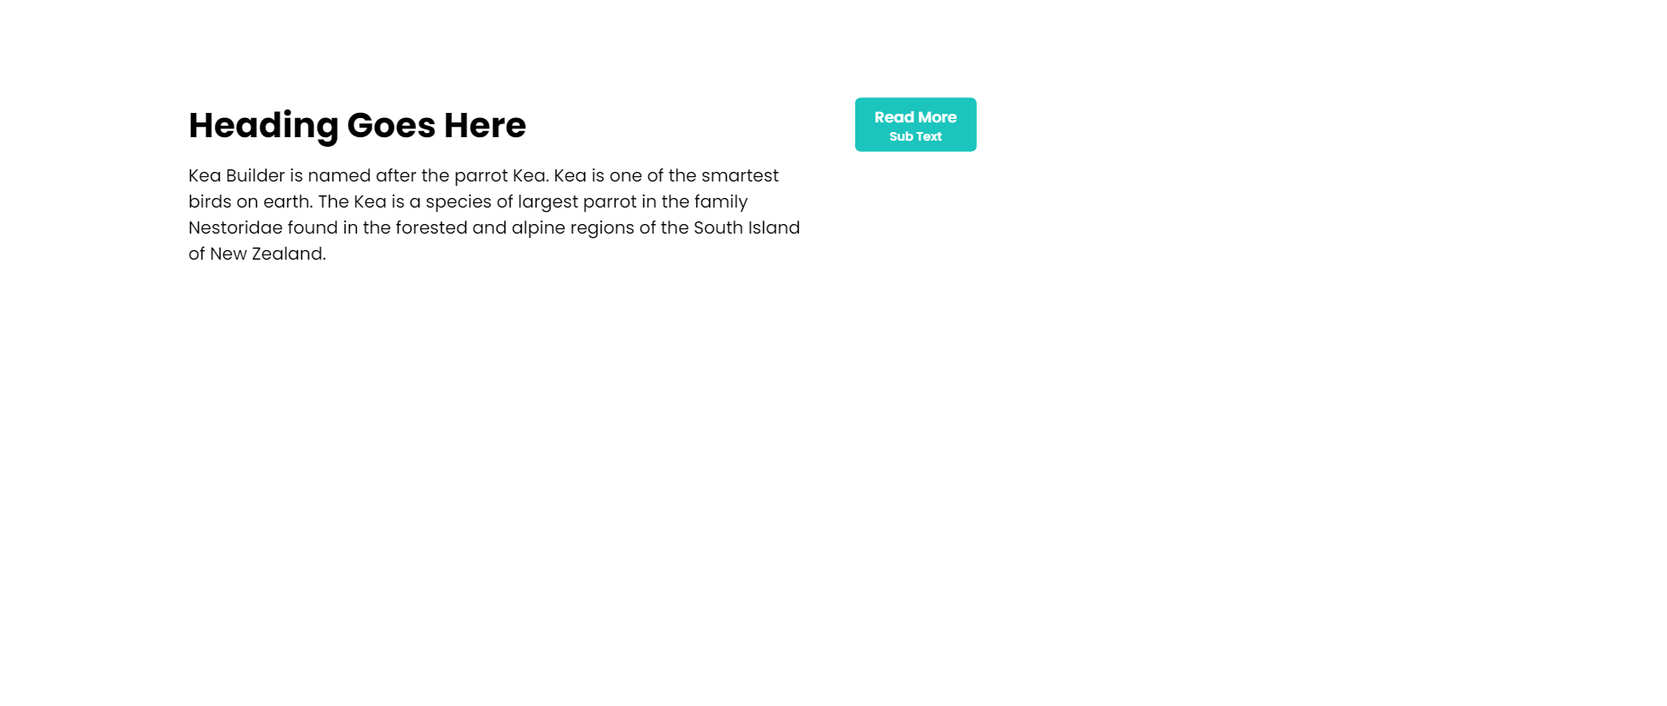
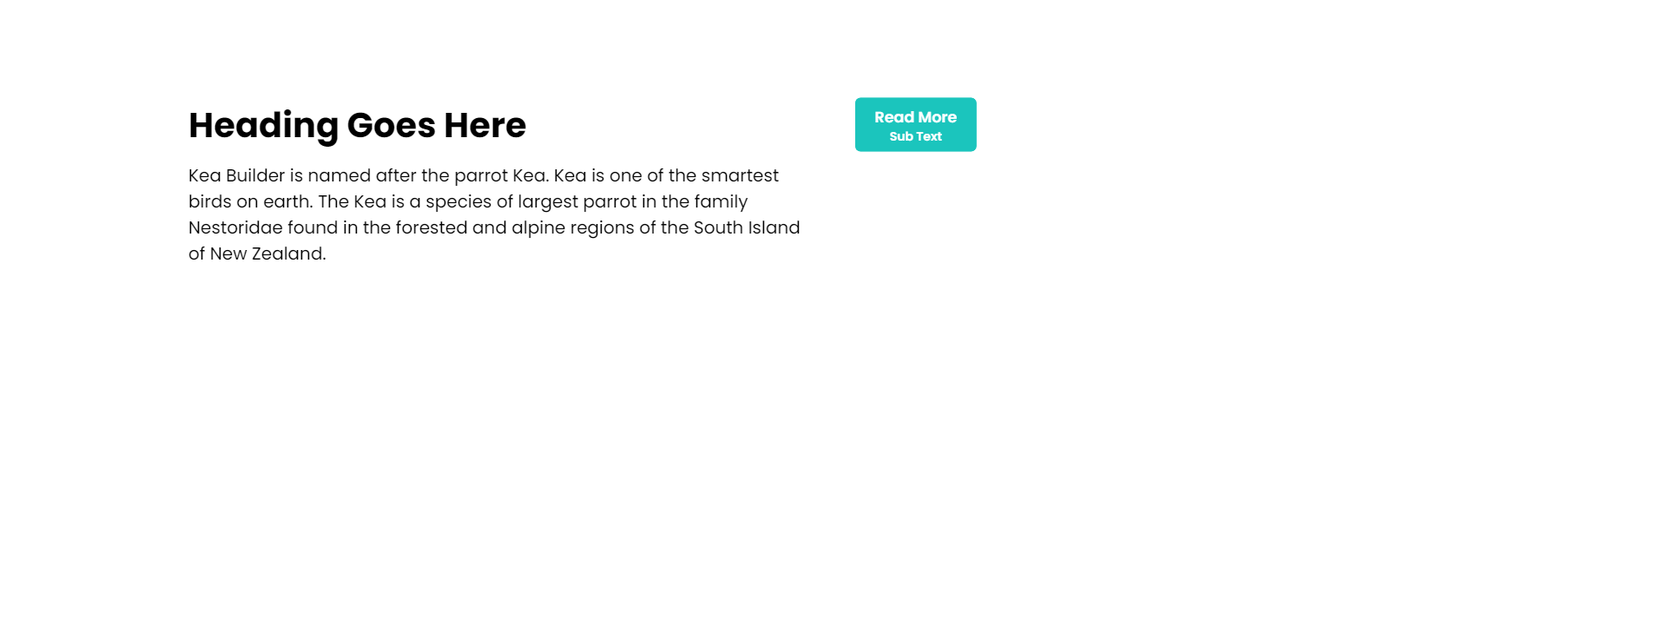
navigation

Changed region(s): [[0.0938, 0.1543, 0.4688, 0.432], [0.5, 0.1234, 0.5938, 0.2468]]

diff --git a/src/assets/default/pages/tracking.html b/src/assets/default/pages/tracking.html
@@ -1,0 +1,23 @@
+<!DOCTYPE html>
+<html>
+<body>
+<div id="kb-header-html">
+    <style id="kb-header-style">#kb-section-617263819{margin:0px auto 0px auto;padding:60px 0px 60px 0px;border-width:0px;border-radius:0px;border-color:rgba(0,0,0,1);border-style:solid;background-color:rgba(0,0,0,0);width:100%;height:auto;z-index:auto;}#kb-row-8402170359{margin:0px auto 0px auto;padding:30px 0px 30px 0px;border-width:0px;border-radius:0px;border-color:rgba(0,0,0,1);border-style:solid;background-color:rgba(0,0,0,0);width:80%;height:auto;z-index:auto;}#kb-row-8402170359 .kb-column-wrap{gap:0rem;}#kb-column-3087493117{margin:0px auto 0px auto;padding:0px 20px 0px 20px;border-width:0px;border-radius:0px;border-color:rgba(0,0,0,1);border-style:solid;background-color:rgba(0,0,0,0);width:100%;height:auto;z-index:auto;}#kb-element-2973388368 .kb-element-content div>div{font-size:32px;font-weight:700;font-style:normal;font-family:poppins;color:rgba(0,0,0,1);text-align:left;text-transform:none;text-decoration-line:none;text-decoration-style:solid;text-decoration-color:rgba(0,0,0,1);line-height:normal;letter-spacing:normal;margin:0px auto 10px 0px;padding:0px 0px 0px 0px;border-width:0px;border-radius:0px;border-color:rgba(0,0,0,1);border-style:solid;background-color:rgba(0,0,0,0);width:auto;height:auto;z-index:auto;}#kb-column-7558927472{margin:0px auto 0px auto;padding:0px 20px 0px 20px;border-width:0px;border-radius:0px;border-color:rgba(0,0,0,1);border-style:solid;background-color:rgba(0,0,0,0);width:100%;height:auto;z-index:auto;}#kb-element-4326245788 .kb-element-content div>div{font-size:32px;font-weight:700;font-style:normal;font-family:poppins;color:rgba(0,0,0,1);text-align:left;text-transform:none;text-decoration-line:none;text-decoration-style:solid;text-decoration-color:rgba(0,0,0,1);line-height:normal;letter-spacing:normal;margin:0px auto 10px 0px;padding:0px 0px 0px 0px;border-width:0px;border-radius:0px;border-color:rgba(0,0,0,1);border-style:solid;background-color:rgba(0,0,0,0);width:auto;height:auto;z-index:auto;}@media only screen and (max-width:1024px) and (min-width:769px){}@media only screen and (max-width:768px) and (min-width:426px){#kb-section-617263819{padding:30px 0px;}}@media only screen and (max-width:426px){#kb-section-617263819{padding:30px 0px;}}</style>
+    <header id="kb-header"><div _ngcontent-mur-c309="" cdkdroplist="" class="cdk-drop-list kb-drag-container" ng-reflect-connected-to="[object Object]" ng-reflect-data="[object Object]" id="cdk-drop-list-0"><div _ngcontent-mur-c309="" cdkdrag="" class="cdk-drag kb-section kb-block-container" title="" ng-reflect-ng-class="[object Object]" ng-reflect-ng-style="[object Object]" id="kb-section-617263819"><div _ngcontent-mur-c309="" cdkdroplist="" class="cdk-drop-list kb-drag-container" ng-reflect-id="rowgroup-0" ng-reflect-data="[object Object]" ng-reflect-connected-to="[object Object]" id="rowgroup-0"><div _ngcontent-mur-c309="" cdkdrag="" class="cdk-drag kb-row kb-block-container" title="" ng-reflect-ng-class="[object Object]" ng-reflect-ng-style="[object Object]" id="kb-row-8402170359"><div _ngcontent-mur-c309="" class="kb-column-wrap" ng-reflect-ng-class="[object Object]"><div _ngcontent-mur-c309="" class="kb-column kb-block-container kb-half-block" title="" ng-reflect-ng-style="[object Object]" ng-reflect-ng-class="[object Object]" id="kb-column-3087493117"><div _ngcontent-mur-c309="" cdkdroplist="" class="cdk-drop-list kb-drag-container" ng-reflect-id="elegroup-0" ng-reflect-data="[object Object]" ng-reflect-connected-to="[object Object],[object Object" id="elegroup-0"><div _ngcontent-mur-c309="" cdkdrag="" class="cdk-drag kb-element kb-block-container" title="" id="kb-element-2973388368" ng-reflect-ng-class="[object Object]"><div _ngcontent-mur-c309="" ng-reflect-ng-switch="heading" data-name="heading" style="width: 100%;"><div _ngcontent-mur-c309="" class="kb-element-content"><div _ngcontent-mur-c309=""><div _ngcontent-mur-c309="" ng-reflect-ng-style="[object Object]"><h2>Header</h2></div></div></div></div></div></div></div><div _ngcontent-mur-c309="" class="kb-column kb-block-container kb-half-block" title="" ng-reflect-ng-style="[object Object]" ng-reflect-ng-class="[object Object]" id="kb-column-7558927472"><div _ngcontent-mur-c309="" cdkdroplist="" class="cdk-drop-list kb-drag-container" ng-reflect-id="elegroup-1" ng-reflect-data="[object Object]" ng-reflect-connected-to="[object Object],[object Object" id="elegroup-1"><div _ngcontent-mur-c309="" cdkdrag="" class="cdk-drag kb-element kb-block-container" title="" id="kb-element-4326245788" ng-reflect-ng-class="[object Object]"><div _ngcontent-mur-c309="" ng-reflect-ng-switch="heading" data-name="heading" style="width: 100%;"><div _ngcontent-mur-c309="" class="kb-element-content"><div _ngcontent-mur-c309=""><div _ngcontent-mur-c309="" ng-reflect-ng-style="[object Object]"><h2>Header</h2></div></div></div></div></div></div></div></div></div></div></div></div></header>
+</div>
+<div id="kb-footer-html">
+    <style id="kb-footer-style">#kb-section-1037332598{margin:0px auto 0px auto;padding:60px 0px;border-width:0px;border-radius:0px;border-color:rgba(0,0,0,1);border-style:solid;background-color:#4e342e;width:100%;height:auto;z-index:auto;}#kb-row-1804675894{margin:0px auto 0px auto;padding:30px 0px;border-width:0px;border-radius:0px;border-color:rgba(0,0,0,1);border-style:solid;background-color:rgba(0,0,0,0);width:80%;height:auto;z-index:auto;}#kb-row-1804675894 .kb-column-wrap{gap:0rem;}#kb-column-829294727{margin:0px auto 0px auto;padding:0px 20px 0px 20px;border-width:0px;border-radius:0px;border-color:rgba(0,0,0,1);border-style:solid;background-color:rgba(0,0,0,0);width:100%;height:auto;z-index:auto;}#kb-element-1297955769 .kb-element-content div>div{font-size:32px;font-weight:700;font-style:normal;font-family:poppins;color:rgba(0,0,0,1);text-align:center;text-transform:none;text-decoration-line:none;text-decoration-style:solid;text-decoration-color:rgba(0,0,0,1);line-height:normal;letter-spacing:normal;margin:10px auto 90px auto;padding:0px 0px;border-width:0px;border-radius:0px;border-color:rgba(0,0,0,1);border-style:solid;background-color:#9ccc65;width:auto;height:auto;z-index:auto;}#kb-element-8819362122 .kb-element-content div>div{font-size:16px;font-weight:400;font-style:normal;font-family:poppins;color:rgba(0,0,0,1);text-align:left;text-transform:none;text-decoration-line:none;text-decoration-style:solid;text-decoration-color:rgba(0,0,0,1);line-height:normal;letter-spacing:normal;margin:0px auto 10px 0px;padding:0px 0px 0px 0px;border-width:0px;border-radius:0px;border-color:rgba(0,0,0,1);border-style:solid;background-color:rgba(0,0,0,0);width:auto;height:auto;z-index:auto;}#kb-column-9001084157{margin:0px auto 0px auto;padding:0px 20px 0px 20px;border-width:0px;border-radius:0px;border-color:rgba(0,0,0,1);border-style:solid;background-color:rgba(0,0,0,0);width:100%;height:auto;z-index:auto;}@media only screen and (max-width:1024px) and (min-width:769px){}@media only screen and (max-width:768px) and (min-width:426px){#kb-section-1037332598{padding:30px 0px;}#kb-element-8819362122 .kb-element-content div>div{font-size:14px;}}@media only screen and (max-width:426px){#kb-section-1037332598{padding:30px 0px;}#kb-element-8819362122 .kb-element-content div>div{font-size:14px;}}</style>
+    <footer id="kb-footer"><div _ngcontent-dxn-c309="" cdkdroplist="" class="cdk-drop-list kb-drag-container" ng-reflect-connected-to="[object Object]" ng-reflect-data="[object Object]" id="cdk-drop-list-0"><div _ngcontent-dxn-c309="" cdkdrag="" class="cdk-drag kb-section kb-block-container" title="" ng-reflect-ng-class="[object Object]" ng-reflect-ng-style="[object Object]" id="kb-section-1037332598"><div _ngcontent-dxn-c309="" cdkdroplist="" class="cdk-drop-list kb-drag-container" ng-reflect-id="rowgroup-0" ng-reflect-data="[object Object]" ng-reflect-connected-to="[object Object]" id="rowgroup-0"><div _ngcontent-dxn-c309="" cdkdrag="" class="cdk-drag kb-row kb-block-container" title="" ng-reflect-ng-class="[object Object]" ng-reflect-ng-style="[object Object]" id="kb-row-1804675894"><div _ngcontent-dxn-c309="" class="kb-column-wrap" ng-reflect-ng-class="[object Object]"><div _ngcontent-dxn-c309="" class="kb-column kb-block-container kb-half-block" title="" ng-reflect-ng-style="[object Object]" ng-reflect-ng-class="[object Object]" id="kb-column-829294727"><div _ngcontent-dxn-c309="" cdkdroplist="" class="cdk-drop-list kb-drag-container" ng-reflect-id="elegroup-0" ng-reflect-data="[object Object]" ng-reflect-connected-to="[object Object],[object Object" id="elegroup-0"><div _ngcontent-dxn-c309="" cdkdrag="" class="cdk-drag kb-element kb-block-container" title="" id="kb-element-1297955769" ng-reflect-ng-class="[object Object]"><div _ngcontent-dxn-c309="" ng-reflect-ng-switch="heading" data-name="heading" style="width: 100%;"><div _ngcontent-dxn-c309="" class="kb-element-content"><div _ngcontent-dxn-c309=""><div _ngcontent-dxn-c309="" ng-reflect-ng-style="[object Object]" class="ng-star-inserted"><h2>Footer</h2></div></div></div></div></div><div _ngcontent-dxn-c309="" cdkdrag="" class="cdk-drag kb-element kb-block-container" title="" id="kb-element-8819362122" ng-reflect-ng-class="[object Object]"><div _ngcontent-dxn-c309="" ng-reflect-ng-switch="text" data-name="text" style="width: 100%;"><div _ngcontent-dxn-c309="" class="kb-element-content"><div _ngcontent-dxn-c309=""><div _ngcontent-dxn-c309="" ng-reflect-ng-style="[object Object]"><p>Kea Builder is named after the parrot Kea. Kea is one of the smartest birds on earth. The Kea is a species of largest parrot in the family Nestoridae found in the forested and alpine regions of the South Island of New Zealand.</p></div></div></div></div></div></div></div><div _ngcontent-dxn-c309="" class="kb-column kb-block-container kb-half-block" title="" ng-reflect-ng-style="[object Object]" ng-reflect-ng-class="[object Object]" id="kb-column-9001084157"><div _ngcontent-dxn-c309="" cdkdroplist="" class="cdk-drop-list kb-drag-container" ng-reflect-id="elegroup-1" ng-reflect-data="" ng-reflect-connected-to="[object Object],[object Object" id="elegroup-1"></div><span _ngcontent-dxn-c309="" mattooltip="Add New Element" mattooltipposition="right" class="mat-tooltip-trigger kb-ispan-add add-element" ng-reflect-message="Add New Element" ng-reflect-position="right" aria-describedby="cdk-describedby-message-13" cdk-describedby-host="0"><i _ngcontent-dxn-c309="" class="fa fa-plus"></i></span></div></div></div></div></div></div></footer>
+</div>
+<div id="kb-header-tracking">
+<script>
+console.log('I am coming from header');
+</script>
+</div>
+<div id="kb-footer-tracking">
+<script>
+console.log('I am coming from footer');
+</script>
+</div> 
+</body>
+</html>

diff --git a/src/assets/sites/pages/bug-test2/index.html b/src/assets/sites/pages/bug-test2/index.html
@@ -1,1 +1,1 @@
-<html><head><link rel="icon" type="image/x-icon" href="http://localhost:4200/assets/uploads/images/keaimage-kblogo-4244e1h1bc248.png"><meta charset="UTF-8"><meta name="description" content="This page is built using Keabuilder."><meta name="keywords" content=""><meta name="author" content="Test1"><meta name="viewport" content="width=device-width, initial-scale=1.0"><title>bug test2</title><link rel="stylesheet" href="http://localhost:4200/assets/style/builder.css"><link rel="stylesheet" href="http://localhost:4200/assets/sites/pages/bug-test2/style.css"><script id="tracking-js" kb-include-path="http://localhost:4200/assets/sites/pages/tracking.html" src="http://localhost:4200/assets/script/tracking.js"></script></head><body><header _ngcontent-qck-c309="" kb-include-html="true"></header><div _ngcontent-qck-c309="" id="kb-main" ng-reflect-ng-style="[object Object]"><div _ngcontent-qck-c309="" cdkdroplist="" class="cdk-drop-list kb-drag-container" ng-reflect-connected-to="[object Object]" ng-reflect-data="[object Object]" id="cdk-drop-list-0"><div _ngcontent-qck-c309="" cdkdrag="" class="cdk-drag kb-section kb-block-container" title="" ng-reflect-ng-class="[object Object]" ng-reflect-ng-style="[object Object]" id="kb-section-5677231491"><div _ngcontent-qck-c309="" cdkdroplist="" class="cdk-drop-list kb-drag-container" ng-reflect-id="rowgroup-0" ng-reflect-data="[object Object]" ng-reflect-connected-to="[object Object]" id="rowgroup-0"><div _ngcontent-qck-c309="" cdkdrag="" class="cdk-drag kb-row kb-block-container" title="" ng-reflect-ng-class="[object Object]" ng-reflect-ng-style="[object Object]" id="kb-row-5663904114"><div _ngcontent-qck-c309="" class="kb-column-wrap" ng-reflect-ng-class="[object Object]"><div _ngcontent-qck-c309="" class="kb-column kb-block-container kb-half-block" title="" ng-reflect-ng-style="[object Object]" ng-reflect-ng-class="[object Object]" id="kb-column-8435241460"><div _ngcontent-qck-c309="" cdkdroplist="" class="cdk-drop-list kb-drag-container" ng-reflect-id="elegroup-0" ng-reflect-data="[object Object],[object Object" ng-reflect-connected-to="[object Object],[object Object" id="elegroup-0" style=""><div _ngcontent-qck-c309="" cdkdrag="" class="cdk-drag kb-element kb-block-container" title="" id="kb-element-9298460599" ng-reflect-ng-class="[object Object]" style="margin: 0px auto 10px 0px;"><div _ngcontent-qck-c309="" ng-reflect-ng-switch="heading" data-name="heading" style="width: 100%;"><div _ngcontent-qck-c309="" class="kb-element-content"><div _ngcontent-qck-c309=""><div _ngcontent-qck-c309="" ng-reflect-ng-style="[object Object]"><h2>Heading Goes Here</h2></div></div></div></div></div><div _ngcontent-qck-c309="" cdkdrag="" class="cdk-drag kb-element kb-block-container" title="" id="kb-element-3746936791" ng-reflect-ng-class="[object Object]" style=""><div _ngcontent-qck-c309="" ng-reflect-ng-switch="text" data-name="text" style="width: 100%;"><div _ngcontent-qck-c309="" class="kb-element-content"><div _ngcontent-qck-c309=""><div _ngcontent-qck-c309="" ng-reflect-ng-style="[object Object]"><p>Kea Builder is named after the parrot Kea. Kea is one of the smartest birds on earth. The Kea is a species of largest parrot in the family Nestoridae found in the forested and alpine regions of the South Island of New Zealand.</p></div></div></div></div></div></div></div><div _ngcontent-qck-c309="" class="kb-column kb-block-container kb-half-block" title="" ng-reflect-ng-style="[object Object]" ng-reflect-ng-class="[object Object]" id="kb-column-3980713055"><div _ngcontent-qck-c309="" cdkdroplist="" class="cdk-drop-list kb-drag-container" ng-reflect-id="elegroup-1" ng-reflect-data="[object Object]" ng-reflect-connected-to="[object Object],[object Object" id="elegroup-1"><div _ngcontent-qck-c309="" cdkdrag="" class="cdk-drag kb-element kb-block-container" title="" id="kb-element-629043457" ng-reflect-ng-class="[object Object]" style="margin: 0px auto 10px 0px;"><div _ngcontent-qck-c309="" ng-reflect-ng-switch="button" data-name="button"><div _ngcontent-qck-c309="" class="kb-element-content"><a _ngcontent-qck-c309="" class="kb-default-btn" href="http://localhost:4200/builder/website/ji938bgi8b98a#" target="_self" ng-reflect-ng-style="[object Object]"><div _ngcontent-qck-c309="">Read More</div><div _ngcontent-qck-c309="" class="subtext">Sub Text</div></a></div></div></div></div></div></div></div></div></div></div></div><footer _ngcontent-qck-c309="" kb-include-html="true"></footer></body></html>
+<html><head><link rel="icon" type="image/x-icon" href="http://localhost:4200/assets/uploads/images/keaimage-kblogo-4244e1h1bc248.png"><meta charset="UTF-8"><meta name="description" content="This page is built using Keabuilder."><meta name="keywords" content=""><meta name="author" content="Test1"><meta name="viewport" content="width=device-width, initial-scale=1.0"><title>bug test2</title><link rel="stylesheet" href="http://localhost:4200/assets/style/builder.css"><link rel="stylesheet" href="http://localhost:4200/assets/sites/pages/bug-test2/style.css"><script id="tracking-js" kb-include-path="http://localhost:4200/assets/sites/pages/tracking.html" src="http://localhost:4200/assets/script/tracking.js"></script></head><body><header _ngcontent-tmy-c309="" kb-include-html="true"></header><div _ngcontent-tmy-c309="" id="kb-main" ng-reflect-ng-style="[object Object]"><div _ngcontent-tmy-c309="" cdkdroplist="" class="cdk-drop-list kb-drag-container" ng-reflect-connected-to="[object Object]" ng-reflect-data="[object Object]" id="cdk-drop-list-0"><div _ngcontent-tmy-c309="" cdkdrag="" class="cdk-drag kb-section kb-block-container" title="" ng-reflect-ng-class="[object Object]" ng-reflect-ng-style="[object Object]" id="kb-section-5677231491"><div _ngcontent-tmy-c309="" cdkdroplist="" class="cdk-drop-list kb-drag-container" ng-reflect-id="rowgroup-0" ng-reflect-data="[object Object]" ng-reflect-connected-to="[object Object]" id="rowgroup-0"><div _ngcontent-tmy-c309="" cdkdrag="" class="cdk-drag kb-row kb-block-container" title="" ng-reflect-ng-class="[object Object]" ng-reflect-ng-style="[object Object]" id="kb-row-5663904114"><div _ngcontent-tmy-c309="" class="kb-column-wrap" ng-reflect-ng-class="[object Object]"><div _ngcontent-tmy-c309="" class="kb-column kb-block-container kb-half-block" title="" ng-reflect-ng-style="[object Object]" ng-reflect-ng-class="[object Object]" id="kb-column-8435241460"><div _ngcontent-tmy-c309="" cdkdroplist="" class="cdk-drop-list kb-drag-container" ng-reflect-id="elegroup-0" ng-reflect-data="[object Object],[object Object" ng-reflect-connected-to="[object Object],[object Object" id="elegroup-0"><div _ngcontent-tmy-c309="" cdkdrag="" class="cdk-drag kb-element kb-block-container" title="" id="kb-element-9298460599" ng-reflect-ng-class="[object Object]"><div _ngcontent-tmy-c309="" ng-reflect-ng-switch="heading" data-name="heading" style="width: 100%;"><div _ngcontent-tmy-c309="" class="kb-element-content"><div _ngcontent-tmy-c309=""><div _ngcontent-tmy-c309="" ng-reflect-ng-style="[object Object]" class="ng-star-inserted"><h2>Heading Goes Here</h2></div></div></div></div></div><div _ngcontent-tmy-c309="" cdkdrag="" class="cdk-drag kb-element kb-block-container ng-star-inserted" title="" id="kb-element-3267968163" ng-reflect-ng-class="[object Object]"><div _ngcontent-tmy-c309="" ng-reflect-ng-switch="text" data-name="text" style="width: 100%;"><div _ngcontent-tmy-c309="" class="kb-element-content ng-star-inserted"><div _ngcontent-tmy-c309="" class="ng-star-inserted"><div _ngcontent-tmy-c309="" ng-reflect-ng-style="[object Object]" class="ng-star-inserted"><p>Kea Builder is named after the parrot Kea. Kea is one of the smartest birds on earth. The Kea is a species of largest parrot in the family Nestoridae found in the forested and alpine regions of the South Island of New Zealand.</p></div></div></div></div></div></div></div><div _ngcontent-tmy-c309="" class="kb-column kb-block-container kb-half-block" title="" ng-reflect-ng-style="[object Object]" ng-reflect-ng-class="[object Object]" id="kb-column-3980713055"><div _ngcontent-tmy-c309="" cdkdroplist="" class="cdk-drop-list kb-drag-container" ng-reflect-id="elegroup-1" ng-reflect-data="[object Object]" ng-reflect-connected-to="[object Object],[object Object" id="elegroup-1"><div _ngcontent-tmy-c309="" cdkdrag="" class="cdk-drag kb-element kb-block-container" title="" id="kb-element-629043457" ng-reflect-ng-class="[object Object]"><div _ngcontent-tmy-c309="" ng-reflect-ng-switch="button" data-name="button"><div _ngcontent-tmy-c309="" class="kb-element-content"><a _ngcontent-tmy-c309="" class="kb-default-btn" href="http://localhost:4200/builder/website/ji938bgi8b98a#" target="_self" ng-reflect-ng-style="[object Object]"><div _ngcontent-tmy-c309="">Read More</div><div _ngcontent-tmy-c309="" class="subtext">Sub Text</div></a></div></div></div></div></div></div></div></div></div></div></div><footer _ngcontent-tmy-c309="" kb-include-html="true"></footer></body></html>

diff --git a/src/assets/sites/pages/bug-test2/style.css b/src/assets/sites/pages/bug-test2/style.css
@@ -1,1 +1,1 @@
-#kb-main{margin:0px auto 0px auto;padding:0px 0px 0px 0px;border-width:0px;border-radius:0px;border-color:rgba(0,0,0,1);border-style:solid;background-color:rgba(0,0,0,0);width:100%;height:100%;z-index:auto;}#kb-section-5677231491{margin:0px auto 0px auto;padding:60px 0px 60px 0px;border-width:0px;border-radius:0px;border-color:rgba(0,0,0,1);border-style:solid;background-color:rgba(0,0,0,0);width:100%;height:auto;z-index:auto;}#kb-row-5663904114{margin:0px auto 0px auto;padding:30px 0px 30px 0px;border-width:0px;border-radius:0px;border-color:rgba(0,0,0,1);border-style:solid;background-color:rgba(0,0,0,0);width:80%;height:auto;z-index:auto;}#kb-row-5663904114 .kb-column-wrap{gap:0rem;}#kb-column-8435241460{margin:0px auto 0px auto;padding:0px 20px 0px 20px;border-width:0px;border-radius:0px;border-color:rgba(0,0,0,1);border-style:solid;background-color:rgba(0,0,0,0);width:100%;height:auto;z-index:auto;}#kb-element-9298460599 .kb-element-content div>div{font-size:32px;font-weight:700;font-style:normal;font-family:poppins;color:rgba(0,0,0,1);text-align:left;text-transform:none;text-decoration-line:none;text-decoration-style:solid;text-decoration-color:rgba(0,0,0,1);line-height:normal;letter-spacing:normal;margin:0px auto 10px 0px;padding:0px 0px 0px 0px;border-width:0px;border-radius:0px;border-color:rgba(0,0,0,1);border-style:solid;background-color:rgba(0,0,0,0);width:auto;height:auto;z-index:auto;}#kb-element-3746936791 .kb-element-content div>div{}#kb-column-3980713055{margin:0px auto 0px auto;padding:0px 20px 0px 20px;border-width:0px;border-radius:0px;border-color:rgba(0,0,0,1);border-style:solid;background-color:rgba(0,0,0,0);width:100%;height:auto;z-index:auto;}#kb-element-629043457 .kb-element-content a{font-size:14px;font-weight:600;font-style:normal;font-family:poppins;color:rgba(255, 255, 255, 1);text-align:center;text-transform:none;text-decoration-line:none;text-decoration-style:solid;text-decoration-color:rgba(255, 255, 255, 1);line-height:normal;letter-spacing:normal;margin:0px auto 10px 0px;padding:4px 16px 4px 16px;border-width:2px;border-radius:5px;border-color:#1BC5BD;border-style:solid;background-color:#1BC5BD;width:auto;height:auto;z-index:auto;}@media only screen and (max-width:1024px) and (min-width:769px){}@media only screen and (max-width:768px) and (min-width:426px){#kb-section-5677231491{padding:30px 0px;}#kb-element-9298460599 .kb-element-content div>div{font-size:24px;}}@media only screen and (max-width:426px){#kb-section-5677231491{padding:30px 0px;}#kb-element-9298460599 .kb-element-content div>div{font-size:24px;}}
+#kb-main{margin:0px auto 0px auto;padding:0px 0px 0px 0px;border-width:0px;border-radius:0px;border-color:rgba(0,0,0,1);border-style:solid;background-color:rgba(0,0,0,0);width:100%;height:100%;z-index:auto;}#kb-section-5677231491{margin:0px auto 0px auto;padding:60px 0px 60px 0px;border-width:0px;border-radius:0px;border-color:rgba(0,0,0,1);border-style:solid;background-color:rgba(0,0,0,0);width:100%;height:auto;z-index:auto;}#kb-row-5663904114{margin:0px auto 0px auto;padding:30px 0px 30px 0px;border-width:0px;border-radius:0px;border-color:rgba(0,0,0,1);border-style:solid;background-color:rgba(0,0,0,0);width:80%;height:auto;z-index:auto;}#kb-row-5663904114 .kb-column-wrap{gap:0rem;}#kb-column-8435241460{margin:0px auto 0px auto;padding:0px 20px 0px 20px;border-width:0px;border-radius:0px;border-color:rgba(0,0,0,1);border-style:solid;background-color:rgba(0,0,0,0);width:100%;height:auto;z-index:auto;}#kb-element-9298460599 .kb-element-content div>div{font-size:32px;font-weight:700;font-style:normal;font-family:poppins;color:rgba(0,0,0,1);text-align:left;text-transform:none;text-decoration-line:none;text-decoration-style:solid;text-decoration-color:rgba(0,0,0,1);line-height:normal;letter-spacing:normal;margin:0px auto 10px 0px;padding:0px 0px;border-width:0px;border-radius:0px;border-color:rgba(0,0,0,1);border-style:solid;background-color:rgba(0,0,0,0);width:auto;height:auto;z-index:auto;}#kb-element-3267968163 .kb-element-content div>div{font-size:16px;font-weight:400;font-style:normal;font-family:poppins;color:rgba(0,0,0,1);text-align:left;text-transform:none;text-decoration-line:none;text-decoration-style:solid;text-decoration-color:rgba(0,0,0,1);line-height:normal;letter-spacing:normal;margin:0px auto 10px 0px;padding:0px 0px 0px 0px;border-width:0px;border-radius:0px;border-color:rgba(0,0,0,1);border-style:solid;background-color:rgba(0,0,0,0);width:auto;height:auto;z-index:auto;}#kb-column-3980713055{margin:0px auto 0px auto;padding:0px 20px 0px 20px;border-width:0px;border-radius:0px;border-color:rgba(0,0,0,1);border-style:solid;background-color:rgba(0,0,0,0);width:100%;height:auto;z-index:auto;}#kb-element-629043457 .kb-element-content a{font-size:14px;font-weight:600;font-style:normal;font-family:poppins;color:rgba(255, 255, 255, 1);text-align:center;text-transform:none;text-decoration-line:none;text-decoration-style:solid;text-decoration-color:rgba(255, 255, 255, 1);line-height:normal;letter-spacing:normal;margin:0px auto 10px 0px;padding:4px 16px 4px 16px;border-width:2px;border-radius:5px;border-color:#1BC5BD;border-style:solid;background-color:#1BC5BD;width:auto;height:auto;z-index:auto;}@media only screen and (max-width:1024px) and (min-width:769px){}@media only screen and (max-width:768px) and (min-width:426px){#kb-section-5677231491{padding:30px 0px;}#kb-element-3267968163 .kb-element-content div>div{font-size:14px;}}@media only screen and (max-width:426px){#kb-section-5677231491{padding:30px 0px;}#kb-element-3267968163 .kb-element-content div>div{font-size:14px;}}

diff --git a/src/app/navigation/navigation.component.html b/src/app/navigation/navigation.component.html
@@ -1,0 +1,76 @@
+<ng-template>
+    <div class="container-fluid kb-details-container kb-scroll" [class.dragBox]="dragBoxAnime.open" [class.dragBoxClose]="dragBoxAnime.close"
+    [style.width]="_general.expand ? _general.screenWidth - 400+'px' : ''" cdkDragBoundary=".cdk-overlay-container"
+    cdkDragRootElement=".cdk-overlay-pane" cdkDrag>
+        <span class="kb-selection-top-actions">
+            <button mat-button (click)="overlayRefDetach()">
+                <i class="fa fa-times"></i>
+            </button>
+        </span>
+        <ul class="kb-drag-container" cdkDropList>
+            <li cdkDrag *ngFor="let item of selectedMenu.items, index as mi"
+            (mouseleave)="_general.lastDevList ? _general.lastDevList.style.maxHeight = '0px' : ''; item.chngName = false" class="kb-cs kb-block-container">
+                <div *cdkDragPreview class="custom-preview">{{item.name ? item.name : 'Menu Item'}}</div>
+                <div *cdkDragPlaceholder class="custom-placeholder kb-cs"></div>        
+                <span
+                    class="kb-setting-icon">
+                    <i cdkDragHandle *ngIf="selectedMenu.items.length > 1" class="kb-handle-menu kb-handle-block fas fa-arrows-alt-v"></i>
+                    <i (click)="_general.expandDevList('menu-item-'+mi)" class="fa" [class]="_style.getDisplay(item.hide) ? 'fa-eye-slash' : 'fa-eye'"></i>
+                    <div [id]="'menu-item-'+mi" class="dislay-device-list" [style.maxHeight]="'0px'">
+                            <mat-checkbox [checked]="_general.isAllHide(item.hide)"
+                            [indeterminate]="_general.someComplete(item.hide)"
+                            (change)="_general.setAll(item.hide, $event.checked)">All</mat-checkbox>
+                            <mat-checkbox [(ngModel)]="item.hide.desktop">Desktop</mat-checkbox>
+                            <mat-checkbox [(ngModel)]="item.hide.tablet_h">Tablet Horizontal</mat-checkbox>
+                            <mat-checkbox [(ngModel)]="item.hide.tablet_v">Tablet Vertical</mat-checkbox>
+                            <mat-checkbox [(ngModel)]="item.hide.mobile">Mobile</mat-checkbox>
+                    </div>
+                </span>
+                <span class="kb-block-name">
+                    <span *ngIf="!item.chngName else chngInp" matTooltip="Click To Rename"
+                        matTooltipPosition="above" (mouseover)="item.chngName = !item.chngName"
+                        class="kb-chngName">{{item.name ? item.name : 'Menu Item'}}</span>
+                    <ng-template #chngInp>
+                        <span>
+                            <input type="text" placeholder="Menu Item Name"
+                                [(ngModel)]="item.name"
+                                (keydown.enter)="item.chngName = !item.chngName"
+                                class="kb-chngname-inp">
+                        </span>
+                    </ng-template>
+                </span>
+                <span class="kb-setting-icon">
+                    <i (click)="addMenuItem(selectedMenu.items, menuItemObj, mi)"
+                        matTooltip="Add New Item" matTooltipPosition="above"
+                        class="fa fa-plus"></i>
+                    <i (click)="duplicateMenuItem(selectedMenu.items, item, mi)"
+                        matTooltip="Duplicate Item" matTooltipPosition="above"ś
+                        class="far fa-copy"></i>
+                    <i *ngIf="selectedMenu.items.length > 1"
+                        (click)="deleteMenuItem(selectedMenu.items,mi)"
+                        matTooltip="Delete Item" matTooltipPosition="above"
+                        class="far fa-trash-alt"></i>
+                </span>
+            </li>
+            <li></li>
+        </ul>
+    </div>
+</ng-template>
+
+<div id="kb-navigation">
+    <ul id="menu-list">
+        <li *ngFor="let menu of menus">
+            <div class="kb-menu-title">
+                <span>{{menu.name}}</span>
+                <input type="text" placeholder="Menu Item Name"
+                [(ngModel)]="menu.name"
+                class="kb-chngname-inp">
+            </div>
+            <div class="kb-menu-option">                
+                <i (click)="openDialog(menu)" matTooltip="Customize" matTooltipPosition="above" class="far fa-edit"></i>
+                <i matTooltip="Duplicate" matTooltipPosition="above" class="far fa-copy"></i>
+                <i matTooltip="Delete" matTooltipPosition="above" class="far fa-trash-alt"></i>
+            </div>
+        </li>
+    </ul>
+</div>

diff --git a/src/app/navigation/navigation.component.ts b/src/app/navigation/navigation.component.ts
@@ -1,0 +1,80 @@
+import { Component, OnInit, ViewChild, TemplateRef, AfterViewInit, ViewContainerRef, OnDestroy, ChangeDetectionStrategy, Input, ElementRef, OnChanges, SimpleChanges} from '@angular/core';
+import { Overlay, OverlayRef } from '@angular/cdk/overlay';
+import { TemplatePortal } from '@angular/cdk/portal';
+import { GeneralService } from '../_services/_builder/general.service';
+import { StyleService } from '../_services/_builder/style.service';
+
+@Component({
+  selector: 'app-navigation',
+  templateUrl: './navigation.component.html',
+  styleUrls: ['./navigation.component.css']
+})
+export class NavigationComponent implements AfterViewInit, OnDestroy {
+
+  @ViewChild(TemplateRef) _dialogTemplate!: TemplateRef<any>;
+  private _overlayRef!: OverlayRef;
+  private _portal!: TemplatePortal;
+
+  menus = [
+    {name: 'Menu 1', items: []},
+    {name: 'Menu 2', items: []},
+  ]
+  menuItemObj:any = {id: '', name: 'Item', type: 'item', link: '#', hide: {desktop: false, table_h: false, tablet_v: false, mobile: false}}
+  dragBoxAnime:any = {open: false, close: false};
+  selectedMenu:any;
+
+  constructor(public _general: GeneralService,  public _style: StyleService,  private _overlay: Overlay, private _viewContainerRef: ViewContainerRef) { 
+  }
+
+  ngAfterViewInit() {
+    this._portal = new TemplatePortal(this._dialogTemplate, this._viewContainerRef);
+    this._overlayRef = this._overlay.create({
+      positionStrategy: this._overlay.position().global().centerHorizontally().centerVertically(),
+      hasBackdrop: true,
+    });
+    this._overlayRef.backdropClick().subscribe(() => {
+      this.overlayRefDetach();
+    });
+  }
+  ngOnDestroy() {
+    this._overlayRef.dispose();
+  }
+  openDialog(menu:any) {
+    this.selectedMenu = menu;
+    this.dragBoxAnime.open = true;
+    this._overlayRef.attach(this._portal);
+    // setTimeout(()=>{
+    //   this.dragBoxAnime.open = false;
+    // },200)
+  }
+  overlayRefDetach() {
+    this.dragBoxAnime.close = true;
+    setTimeout(()=>{
+      this._overlayRef.detach();
+      this.dragBoxAnime.close = false;
+    })
+    }
+
+    // menu items
+
+    addMenuItem(menu:any, item:any, mi: number) {
+      this.appendMenuItem(menu, item, mi);
+    }
+  
+    duplicateMenuItem(menu:any, item:any, mi: number) {
+      this.appendMenuItem(menu, item, mi);
+    }
+  
+    deleteMenuItem(menu:any, mi: number) {
+      menu.splice(mi, 1);
+    }
+  
+    appendMenuItem(menu: any, item:any, mi: number) {
+      var tempObj = JSON.parse(JSON.stringify(item));
+      tempObj.id = this._general.createBlockId(item);
+      menu.splice(mi+1, 0, tempObj);
+    }
+  
+    // menu items
+
+}

diff --git a/src/app/_services/_builder/element.service.ts b/src/app/_services/_builder/element.service.ts
@@ -35,35 +35,22 @@ export class ElementService {
     // button
     { content: { name: 'button', text: 'Read More', subtext: 'Sub Text', subfont_size:'80%', link: '#', target: '_self' }, iconCls: 'fas fa-font' },
     // button
-    // menu
-    { content: { name: 'menu', items:[]}, iconCls: 'fas fa-font' },
-    // menu
     // form
-    { content: { name: 'form', items:[]}, iconCls: 'fab fa-wpforms' }
+    { content: { name: 'form', items:[]}, iconCls: 'fab fa-wpforms' },
     // form
+    // menu
+    // { content: { name: 'menu', items:[]}, iconCls: 'fas fa-font' }, // it should be on the first position
+    // menu
   ];
   menuItemObj:any = {id: '', name: 'Item', type: 'item', link: '#', dropdown: [], chngName: false, style: {desktop:'', tablet_h:'', tablet_v:'', mobile:''}, hide: {desktop: false, table_h: false, tablet_v: false, mobile: false}}
   preMenuItems:any = ['Home','About','Blog','Contact'];
   constructor(private _general: GeneralService, private _row: RowService, private _style: StyleService, private _section: SectionService) {
-    this.elementList.filter(item=>{
-      if(item.content.name == 'menu') {
-        for(var i=0; i<=3; i++) {
-          this.menuItemObj.name = this.preMenuItems[i];
-          // if(i == 0) {
-          //     var obj = JSON.parse(JSON.stringify(this.menuItemObj));
-          //     this.menuItemObj.dropdown.push(obj);
-          //     this.menuItemObj.dropdown.push(obj);
-          //     this.menuItemObj.dropdown.push(obj);
-          //     this.menuItemObj.dropdown.push(obj);
-          // }
-          // else {
-          //   this.menuItemObj.dropdown = [];
-          // }
-          this.addMenuItem(item.content.items, this.menuItemObj, i);
-        }
-        this.menuItemObj.name = 'Item';
-      }
-    })
+    // var item = this.elementList[0];
+    // for(var i=0; i<=3; i++) {
+    //   this.menuItemObj.name = this.preMenuItems[i];
+    //   this.addMenuItem(item.content.items, this.menuItemObj, i);
+    // }
+    // this.menuItemObj.name = 'Item';
   }
 
   getDialogueEvent(): Observable<any> {
@@ -104,8 +91,6 @@ export class ElementService {
   }
 
   // menu
-
-  // session storage
 
   addMenuItem(menu:any, item:any, mi: number) {
     this.appendMenuItem(menu, item, mi);

diff --git a/src/app/app-routing.module.ts b/src/app/app-routing.module.ts
@@ -63,6 +63,7 @@ import { WebsiteDetailsComponent } from './website-details/website-details.compo
 import { WebsiteMarketplaceComponent } from './website-marketplace/website-marketplace.component';
 import { IntegrationsComponent } from './integrations/integrations.component';
 import { FunnelWizardNavComponent } from './funnel-wizard-nav/funnel-wizard-nav.component';
+import { NavigationComponent } from './navigation/navigation.component';
 import { FormBuilderComponent } from './form-builder/form-builder.component';
 import { BuilderTopbarComponent } from './builder-topbar/builder-topbar.component';
 import { ImageComponent } from './image/image.component';
@@ -94,6 +95,7 @@ const routes: Routes = [
       {path: '', component: WebsitePagesComponent, canActivate: [AuthGuard]},
       {path:'pages', component: WebsitePagesComponent, canActivate: [AuthGuard]},
       {path:'layout', component: WebsiteLayoutComponent, canActivate: [AuthGuard]},
+      {path:'navigation', component: NavigationComponent, canActivate: [AuthGuard]},
       {path: 'details', component: WebsiteDetailsComponent, canActivate: [AuthGuard]},
       {path: 'marketplace', component: WebsiteMarketplaceComponent, canActivate: [AuthGuard]}
     ],
@@ -288,6 +290,7 @@ export const RoutingComponents =
     WebsiteDesignComponent,
     WebsiteDetailsComponent,
     WebsiteMarketplaceComponent,
+    NavigationComponent,
     IntegrationsComponent,
     FormBuilderComponent,
     BuilderTopbarComponent,

diff --git a/src/app/navigation/navigation.component.css b/src/app/navigation/navigation.component.css
@@ -1,0 +1,67 @@
+div#kb-navigation {
+    border-radius: 5px;
+    padding: 16px 10px;
+}
+
+ul#menu-list {
+    list-style: none;
+    padding: 0px;
+    margin: 0px;
+}
+
+ul#menu-list li {
+    background-color: var(--kb-gray);
+    margin: 10px 0px;
+    padding: 0px 16px;
+    border-radius: 5px;
+    display: flex;
+    flex-direction: row;
+}
+
+.kb-menu-title {
+    width: 100%;
+}
+
+.kb-menu-option i:not(:last-child) {
+    border-right: 1px solid #aeaeae;
+}
+
+.kb-menu-option i {
+    cursor: pointer;
+    padding: 4px 12px;
+}
+
+ul#menu-list li>div.kb-menu-title {
+    width: 80%;
+}
+
+ul#menu-list li>div.kb-menu-option {
+    width: 20%;
+}
+
+ul#menu-list li>div {
+    font-size: 14px;
+    display: flex;
+    justify-content: center;
+    align-items: center;
+    padding: 8px 0;
+}
+
+.kb-chngname-inp {
+    padding: 2px 10px;
+    border-radius: 5px;
+    width: 100%;
+    border: 0px;
+    background-color: var(--kb-light);
+    font-size: 14px;
+    text-align: center;
+    display: none;
+}
+
+.kb-menu-title:hover span {
+    display: none;
+}
+
+.kb-menu-title:hover .kb-chngname-inp {
+    display: block;
+}

diff --git a/src/app/builder-setting/builder-setting.component.html b/src/app/builder-setting/builder-setting.component.html
@@ -29,7 +29,7 @@
                 <div class="kb-ask-head" cdkDragHandle>Element Selection</div>
                 <div class="kb-element-inner-group">
                     <ul class="kb-element-list">
-                        <li *ngFor="let element of _element.elementList" :key="element.content.name"
+                        <li *ngFor="let element of _element.elementList"
                             class="kb-element-box"><span (click)="_element.addElement(element.content)"><i
                                     [class]="element.iconCls"></i>
                                 <div>{{element.content.name | titlecase}}</div>

diff --git a/src/app/website-details/website-details.component.html b/src/app/website-details/website-details.component.html
@@ -54,8 +54,7 @@
         <div class="insideshdw">
 
           <h5>Navigation Menus</h5>
-
-          <p>Main Menu</p>
+          <app-navigation></app-navigation>
 
         </div>
 
